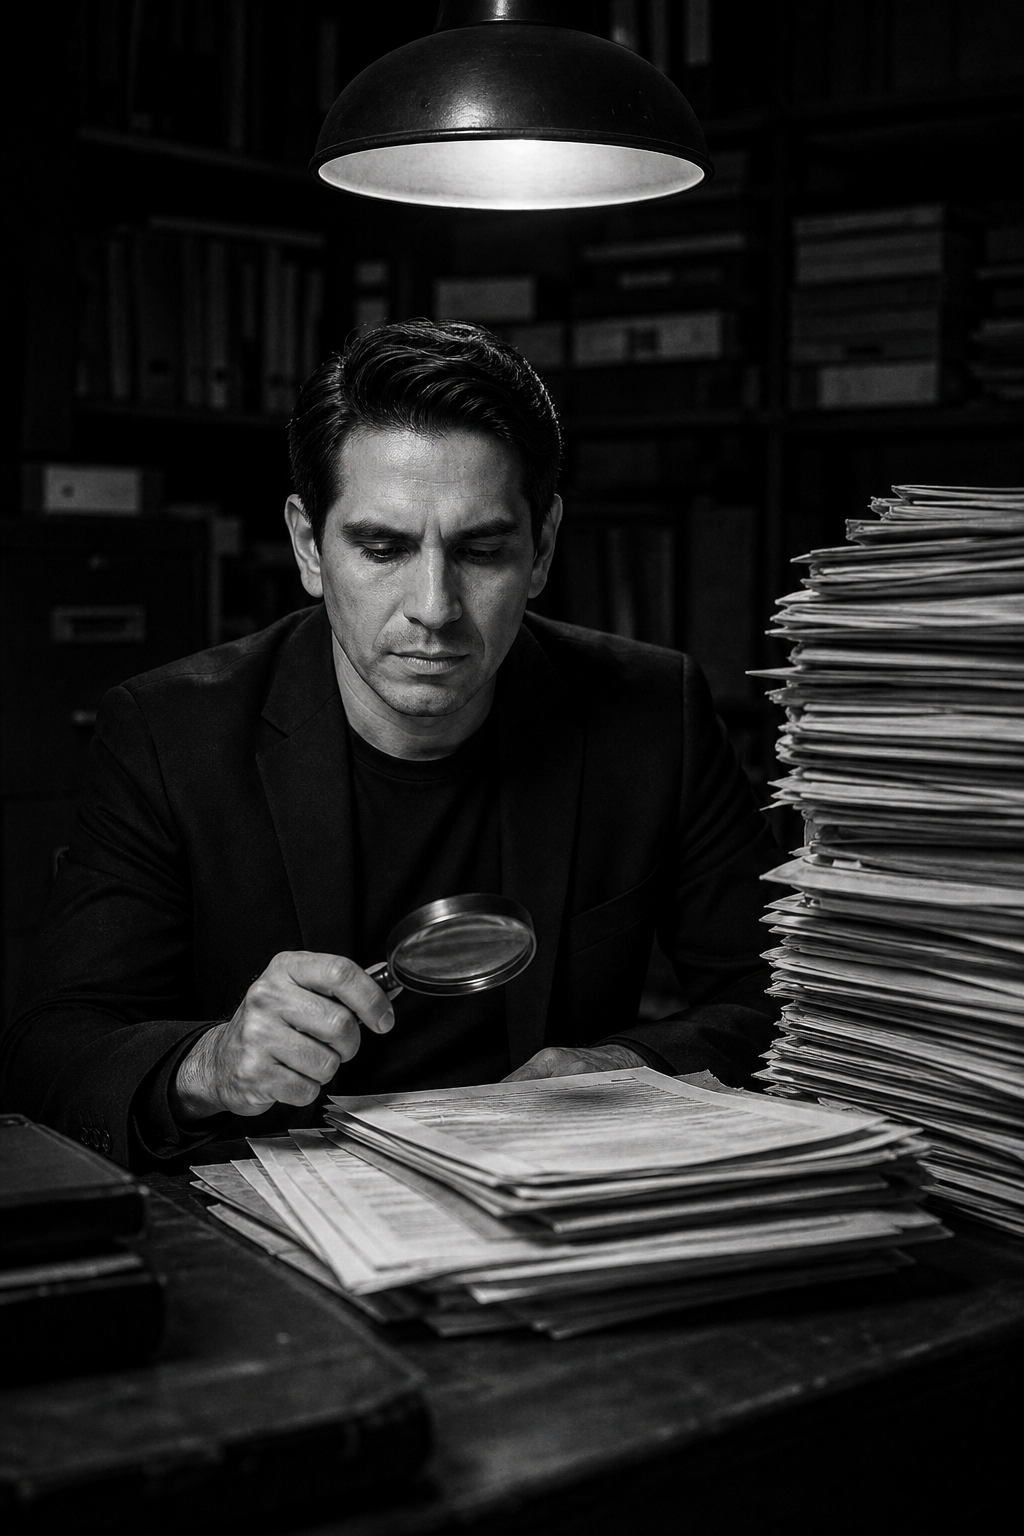
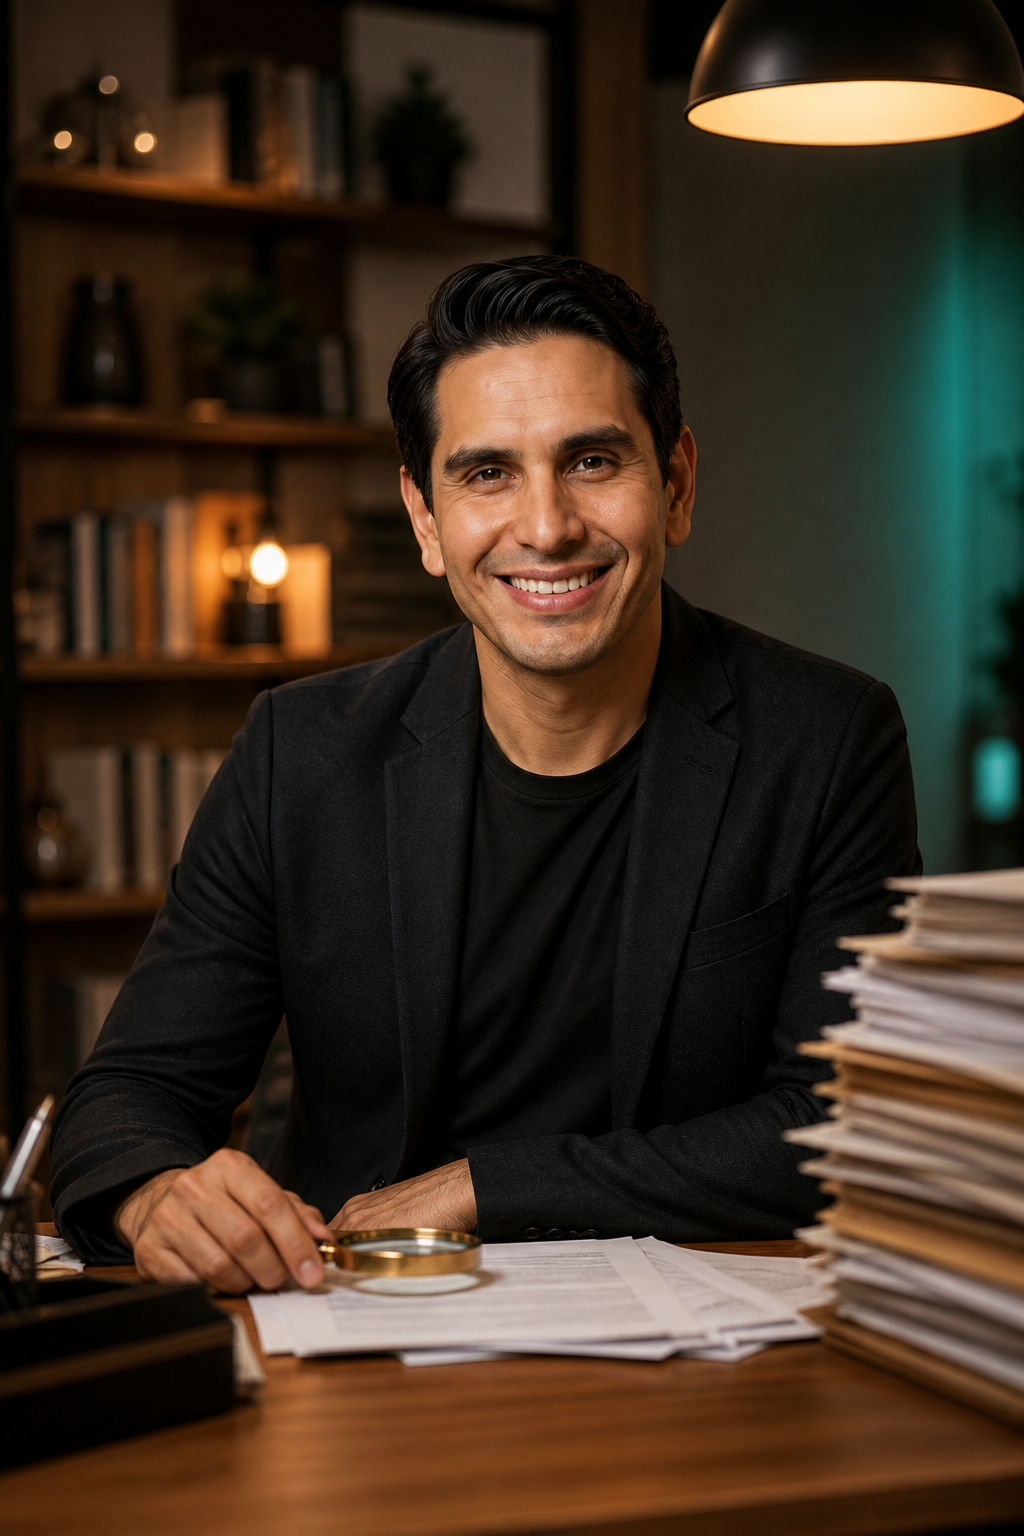
feat(carrusel): portada Sebas a color y expresión cercana
- Nueva foto full color con sonrisa (ref seb.jpg)
- Quita filtro grayscale; scrim más suave para conservar color
- Actualiza notas de package

diff --git a/builds/2026-08-20-agente-simplifica-procesos/generate.py b/builds/2026-08-20-agente-simplifica-procesos/generate.py
@@ -78,17 +78,17 @@ EXTRA_CSS = """
   background:#050505;
 }
 .s1-photo img{
-  width:100%;height:100%;object-fit:cover;object-position:center 20%;
-  filter:grayscale(1) contrast(1.18) brightness(.96);
+  width:100%;height:100%;object-fit:cover;object-position:center 18%;
+  filter:contrast(1.06) saturate(1.08) brightness(1.02);
 }
 .s1-photo::after{
   content:'';position:absolute;inset:0;
   background:linear-gradient(180deg,
-    rgba(10,10,10,.08) 0%,
-    transparent 28%,
-    rgba(10,10,10,.35) 52%,
-    rgba(10,10,10,.82) 68%,
-    rgba(10,10,10,.96) 78%,
+    rgba(10,10,10,.04) 0%,
+    transparent 32%,
+    rgba(10,10,10,.22) 50%,
+    rgba(10,10,10,.72) 66%,
+    rgba(10,10,10,.94) 78%,
     #0A0A0A 88%);
 }
 .s1-copy{

diff --git a/builds/2026-08-20-agente-simplifica-procesos/build.py b/builds/2026-08-20-agente-simplifica-procesos/build.py
@@ -29,7 +29,7 @@ def main() -> None:
         "familia_visual": "before_after",
         "origen": "screenshot",
         "keyword_portada": "PROCESOS",
-        "notas": "Modo negro + retícula verde. Portada Sebastián B&W. CTA Comentá PROCESOS.",
+        "notas": "Modo negro + retícula verde. Portada Sebastián a color, expresión cercana. CTA Comentá PROCESOS.",
     }
     out = package(BUILD, "STLabs-Agente-Simplifica-Procesos", meta=meta, output_dir=BUILD)
     print(f"✓ Package → {out}")
